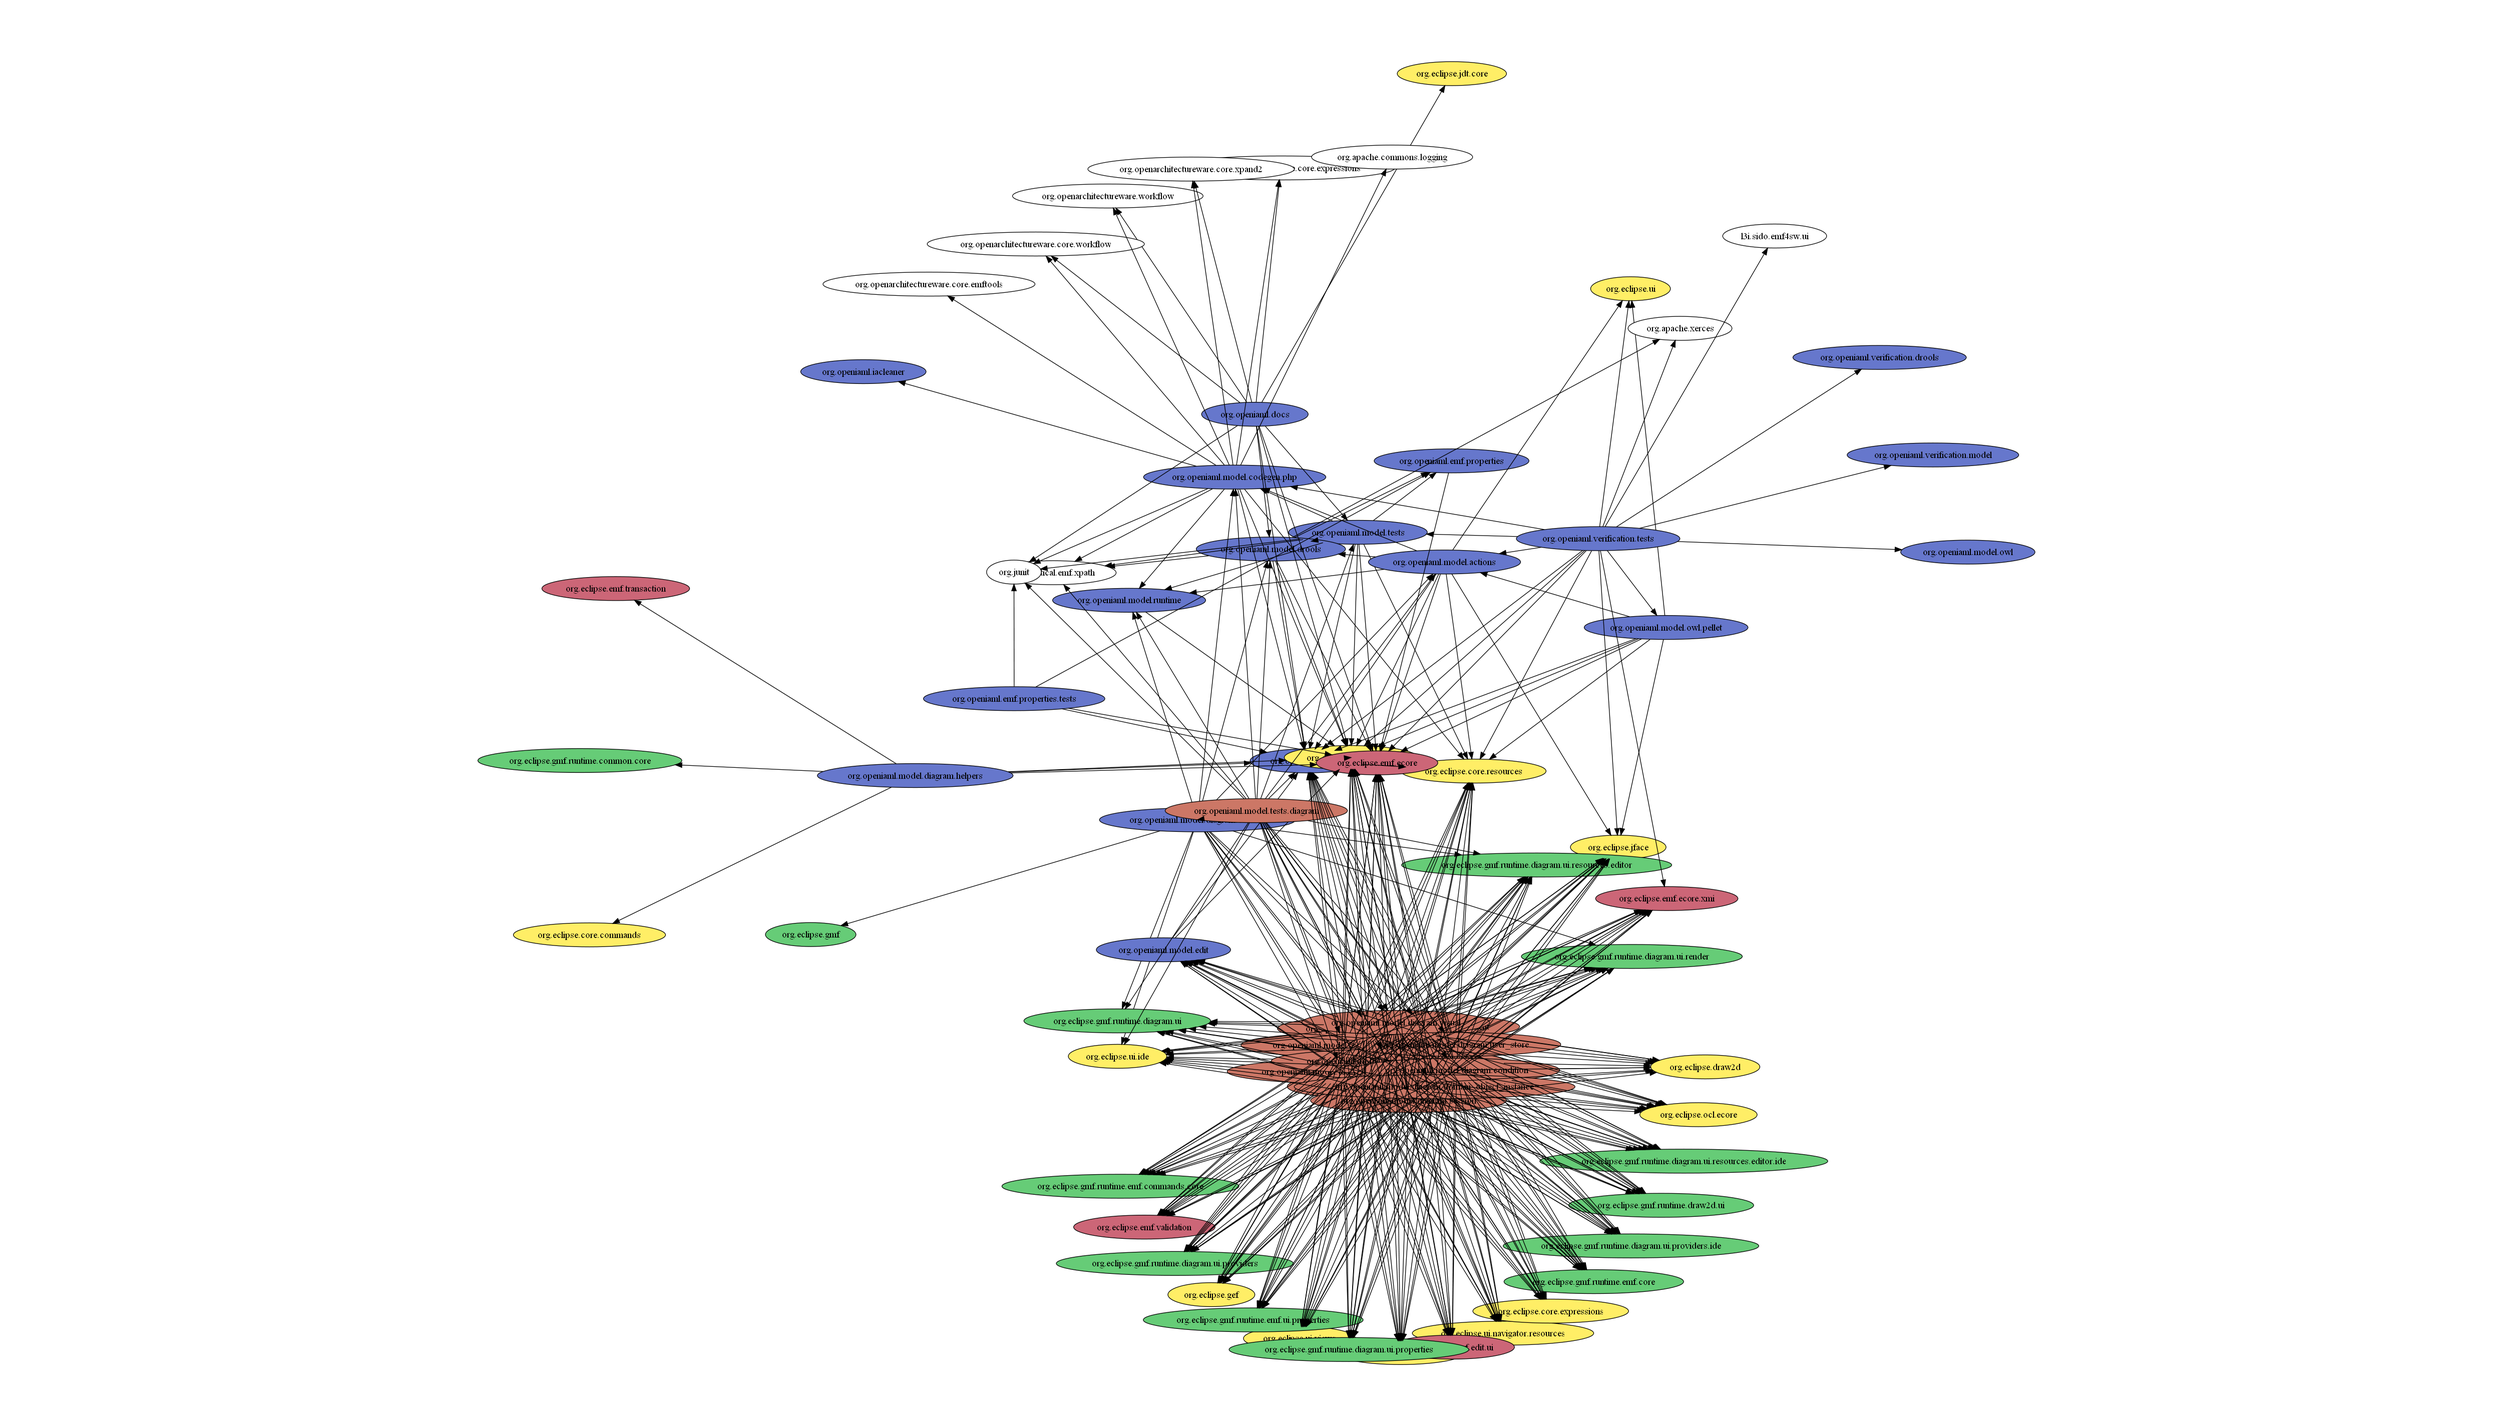
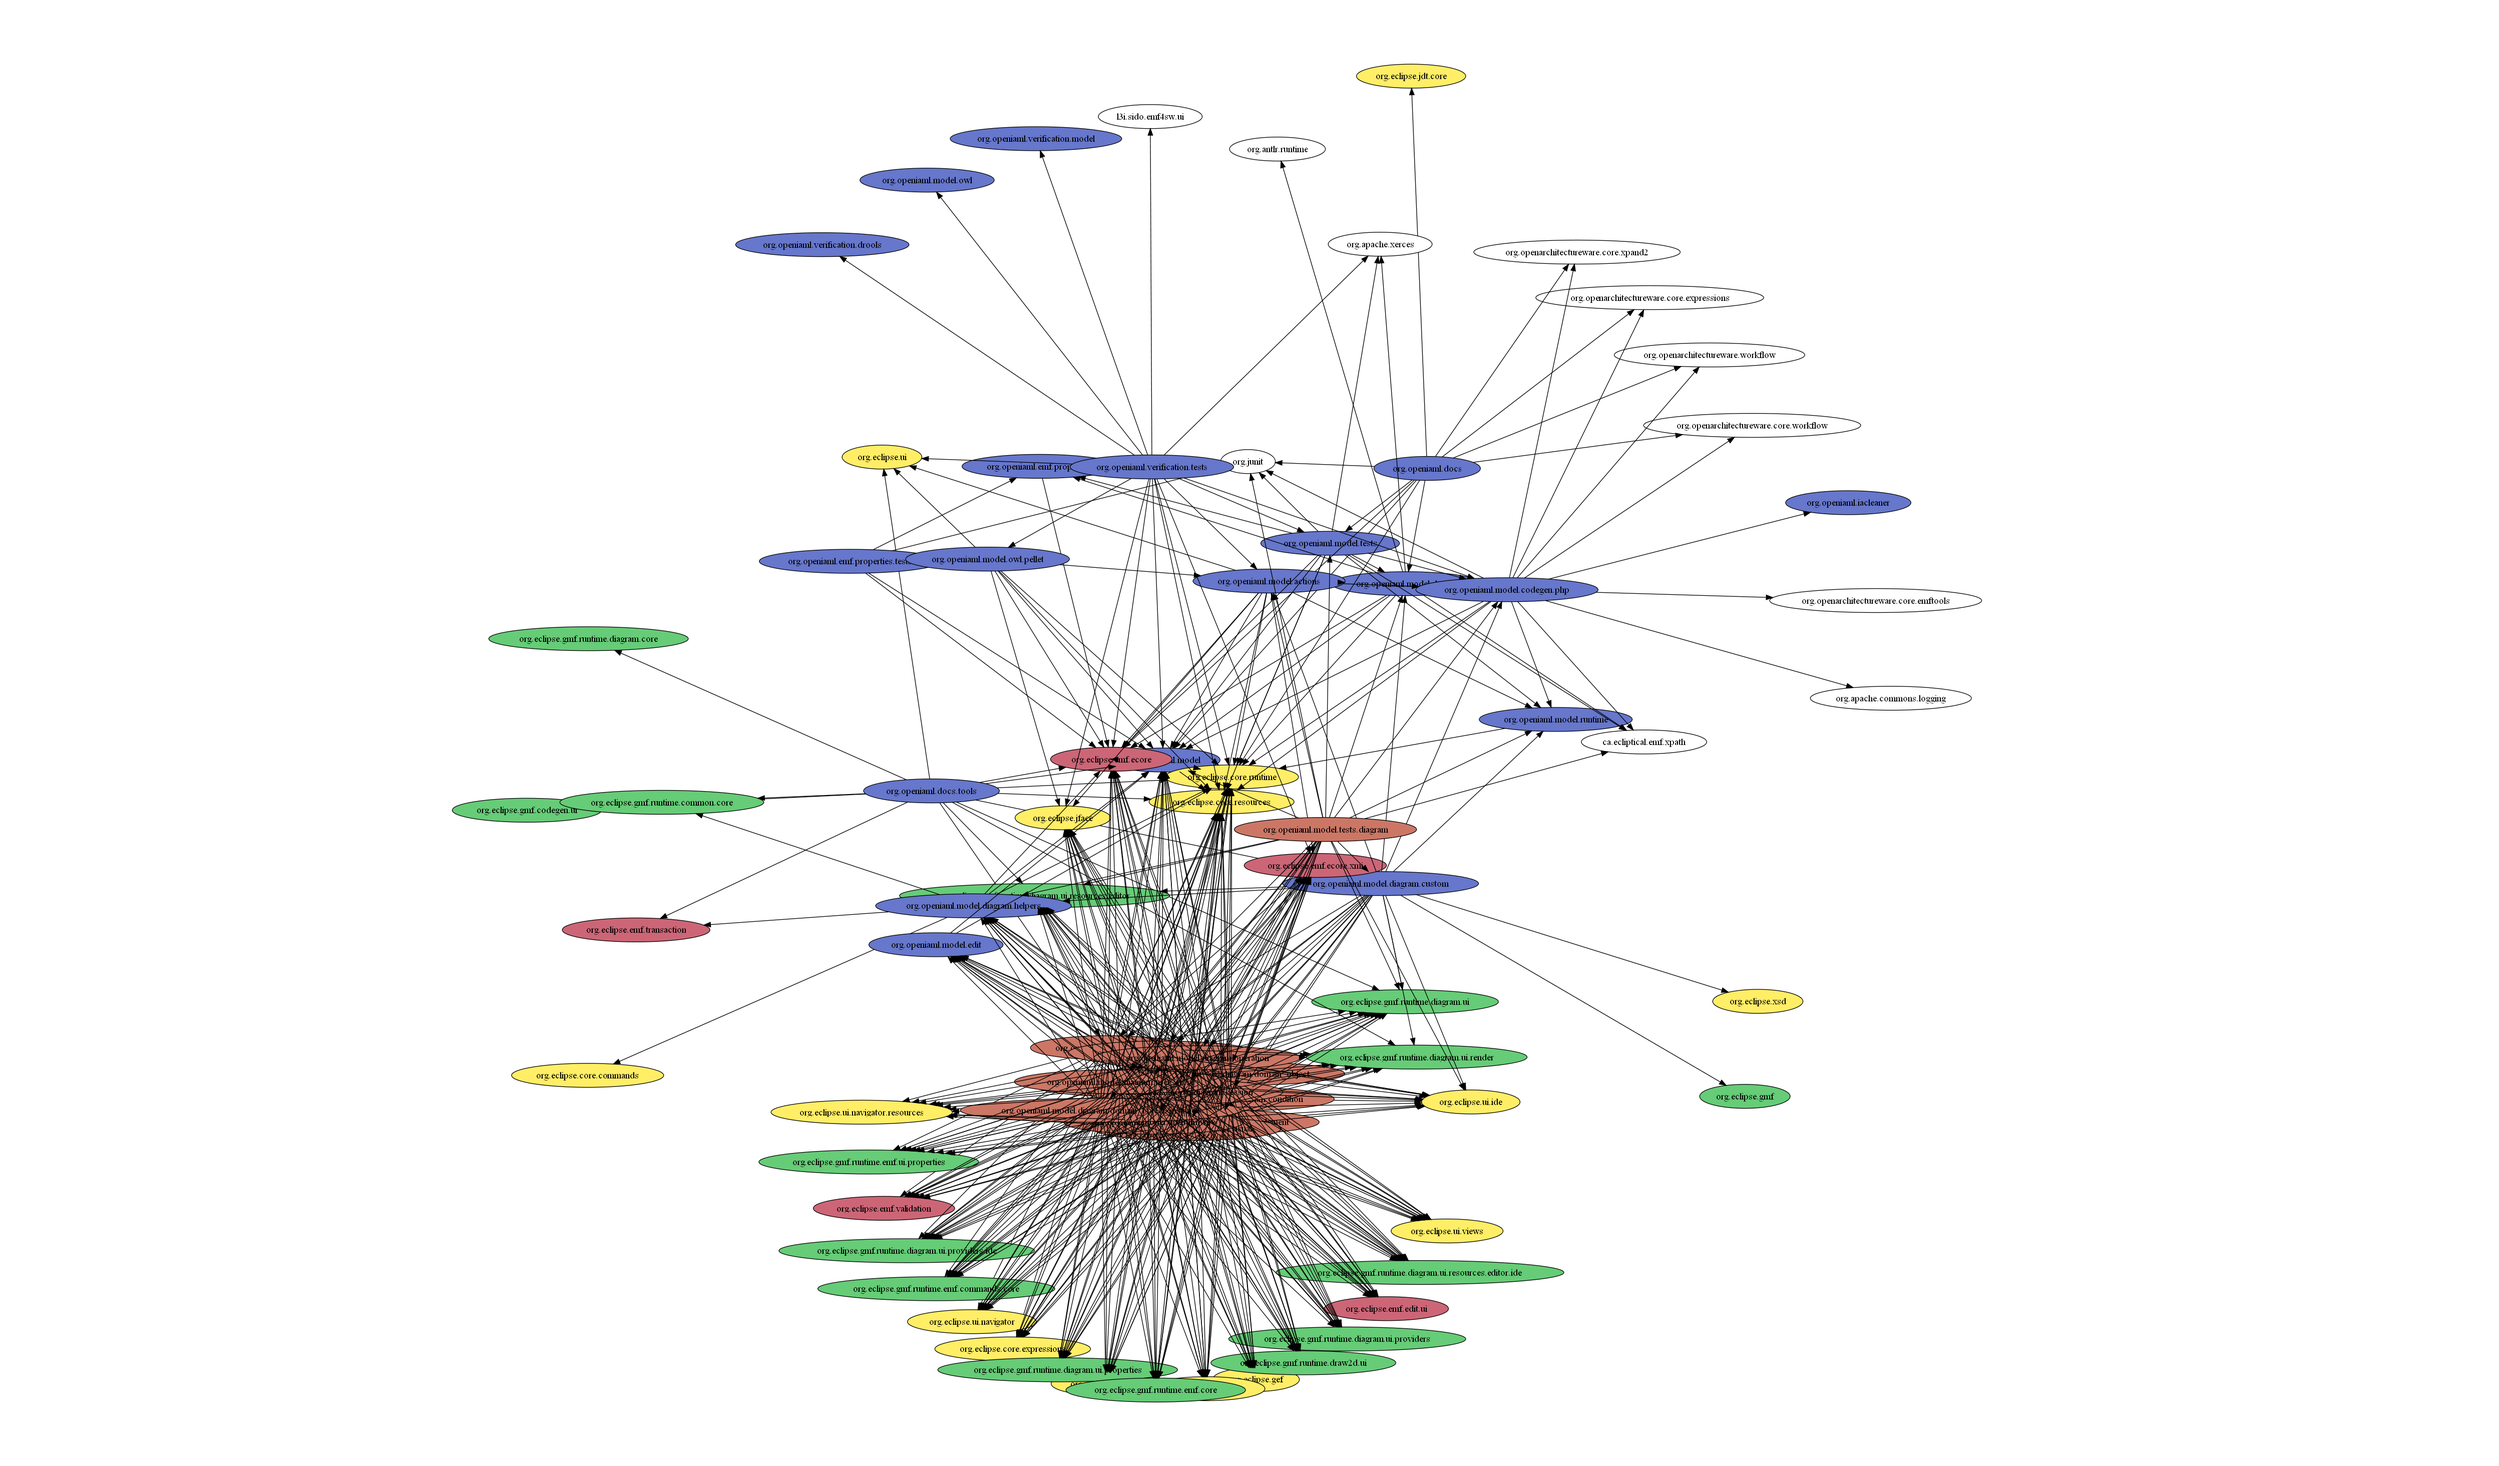
updating dot graphs

diff --git a/org.openiaml.model.tests/src/org/openiaml/model/tests/release/ExportDependencyGraph.java b/org.openiaml.model.tests/src/org/openiaml/model/tests/release/ExportDependencyGraph.java
@@ -106,6 +106,15 @@ public class ExportDependencyGraph extends XmlTestCase {
 			
 			System.out.println("Wrote out dot to " + outFile);
 		}
+		
+		{
+			File outFile = new File("dot/local-dependencies-notests-onediagram.dot.txt");
+			Writer out = new FileWriter(outFile);
+			exportLocalDependenciesNoTestsOneDiagram(dependencies, out);
+			out.close();
+			
+			System.out.println("Wrote out dot to " + outFile);
+		}
 	}
 
 	/**
@@ -221,8 +230,8 @@ public class ExportDependencyGraph extends XmlTestCase {
 
 	public void exportLocalDependenciesNoTests(Map<String, List<String>> dependencies, Writer out) throws IOException {
 		out.write("digraph {\n");
-		out.write("  size=\"32,32\";\n");
-		out.write("  ratio=expand;\n");
+		out.write("  size=\"48,48\";\n");
+		//out.write("  ratio=expand;\n");
 		
 		// print out all nodes that we are using
 		out.write("  node [style=filled, fillcolor=\"#6677cc\"];\n");
@@ -262,8 +271,89 @@ public class ExportDependencyGraph extends XmlTestCase {
 			
 			for (String requires : dependencies.get(bundleName)) {
 				// skip tests
-				if (isTest(bundleName)) continue;
+				if (isTest(requires)) continue;
 
+				// only print out a link if it exists locally
+				if (dependencies.containsKey(requires)) {
+					out.write("  \"" + bundleName + "\" -> \"" + requires + "\";\n");
+				}
+			}
+		}
+		out.write("}");
+	}
+	
+	public void exportLocalDependenciesNoTestsOneDiagram(Map<String, List<String>> dependencies, Writer out) throws IOException {
+		Set<String> skips = new HashSet<String>();
+		skips.add("org.openiaml.model.owl.pellet");
+			
+		out.write("digraph {\n");
+		out.write("  size=\"16,16\";\n");
+		//out.write("  ratio=expand;\n");
+		
+		// print out all nodes that we are using
+		out.write("  node [style=filled, fillcolor=\"#6677cc\"];\n");
+		{
+			// sort out the key set
+			List<String> bundleSorted = new ArrayList<String>(dependencies.keySet());
+			Collections.sort(bundleSorted);
+			for (String bundleName : bundleSorted) {
+				// other skips
+				if (skips.contains(bundleName))
+					continue;
+				
+				// skip tests
+				if (isTest(bundleName)) continue;
+				if (!isDiagram(bundleName))
+					out.write("\"" + bundleName + "\";\n");
+			}
+		}
+		out.write("  node [style=filled, fillcolor=\"#cc7766\"];\n");
+		{
+			// sort out the key set
+			List<String> bundleSorted = new ArrayList<String>(dependencies.keySet());
+			Collections.sort(bundleSorted);
+			for (String bundleName : bundleSorted) {
+				// other skips
+				if (skips.contains(bundleName))
+					continue;
+
+				// skip tests
+				if (isTest(bundleName)) continue;
+				if (isDiagram(bundleName) && bundleName.equals("org.openiaml.model.diagram"))
+					out.write("\"" + bundleName + "\";\n");
+			}
+		}
+		
+		// normal nodes
+		out.write("  node [style=filled, fillcolor=\"#ffffff\"];\n");
+		
+		// sort out the key set
+		List<String> bundleSorted = new ArrayList<String>(dependencies.keySet());
+		Collections.sort(bundleSorted);
+		for (String bundleName : bundleSorted) {			
+			// other skips
+			if (skips.contains(bundleName))
+				continue;
+
+			// skip tests
+			if (isTest(bundleName)) continue;
+			
+			// skip other diagrams
+			if (isDiagram(bundleName) && !bundleName.equals("org.openiaml.model.diagram"))
+				continue;
+			
+			for (String requires : dependencies.get(bundleName)) {
+				// other skips
+				if (skips.contains(requires))
+					continue;
+
+				// skip tests
+				if (isTest(requires)) continue;
+
+				// skip other diagrams
+				if (isDiagram(requires) && !requires.equals("org.openiaml.model.diagram"))
+					continue;
+				
 				// only print out a link if it exists locally
 				if (dependencies.containsKey(requires)) {
 					out.write("  \"" + bundleName + "\" -> \"" + requires + "\";\n");
